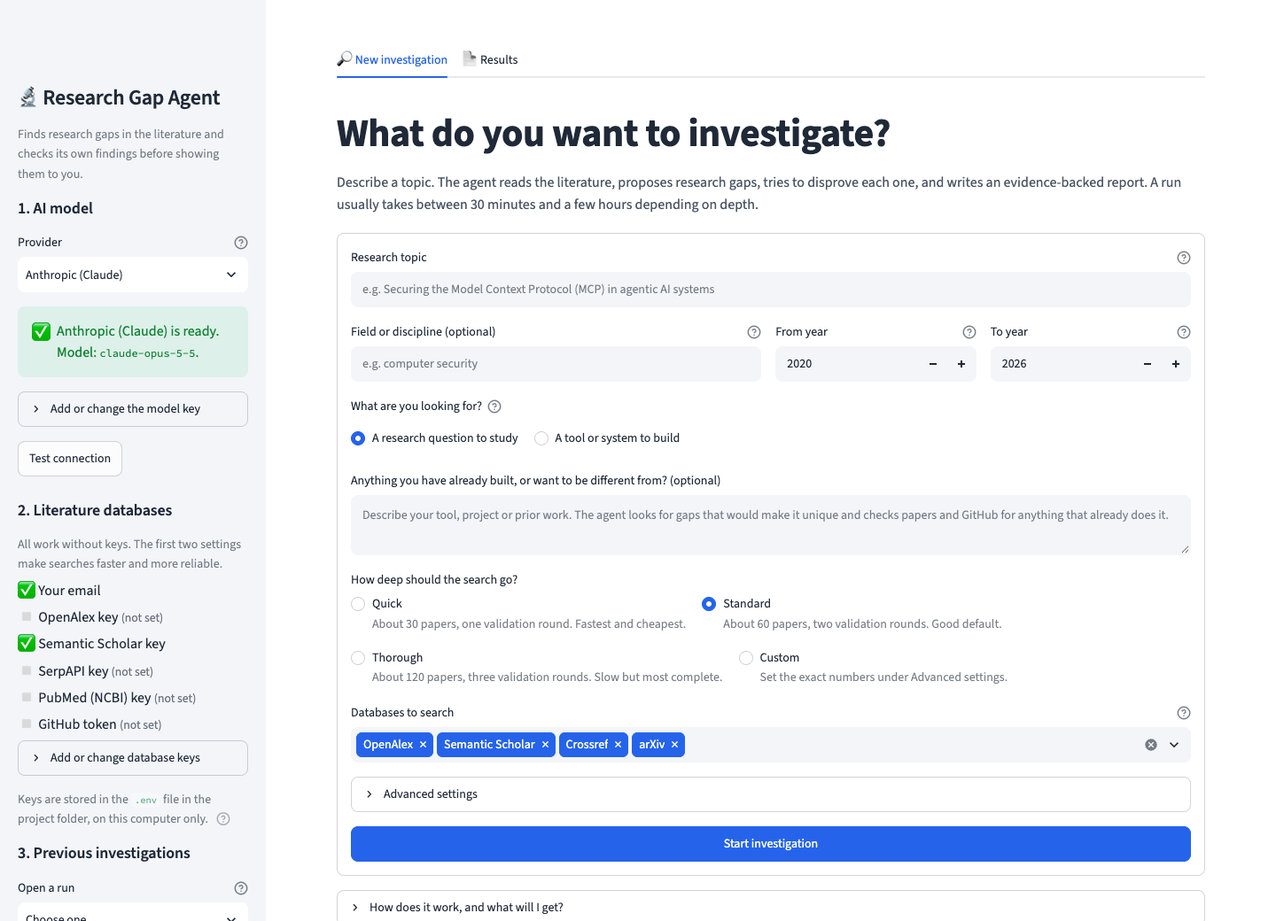
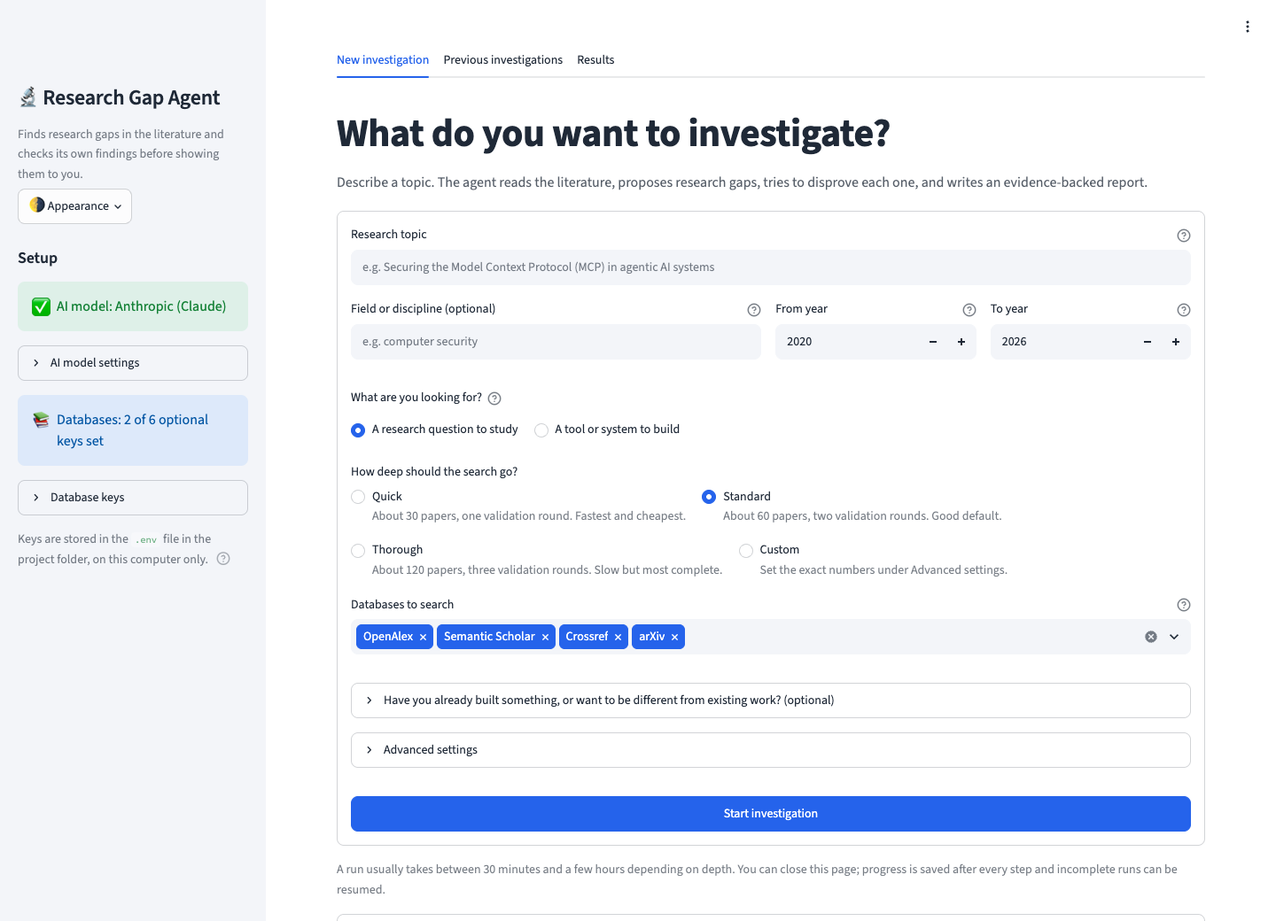
Add light/dark themes, a Previous investigations tab, and a slimmer layout
Light and dark palettes in .streamlit/config.toml with an Appearance switch
in the sidebar (Light / Dark / System) that uses Streamlit's own theme
storage. The sidebar now holds setup only, with the model and database
settings collapsed behind status lines. Previous investigations moves to its
own tab: searchable, filterable, with Open, Run again and Delete (confirmed).
The form folds the optional existing-work box into an expander.

diff --git a/app.py b/app.py
@@ -134,15 +134,17 @@ st.markdown("""
 <style>
   .block-container { padding-top: 2rem; max-width: 1180px; }
   h1 { font-weight: 700; letter-spacing: -0.01em; }
-  .rga-hero { color: #4B5563; font-size: 1.05rem; margin-top: -0.4rem; margin-bottom: 1.2rem; }
+  .rga-hero { opacity: 0.75; font-size: 1.05rem; margin-top: -0.4rem; margin-bottom: 1.2rem; }
   .rga-badge { display: inline-block; padding: 2px 10px; border-radius: 999px; font-size: 0.78rem; font-weight: 600;
                color: white; margin-right: 6px; vertical-align: middle; }
-  .rga-pill { display: inline-block; padding: 2px 9px; border-radius: 999px; font-size: 0.76rem; background: #EEF2FF;
-              color: #3730A3; margin-right: 6px; vertical-align: middle; }
-  .rga-muted { color: #6B7280; font-size: 0.86rem; }
-  .rga-rank { font-size: 1.6rem; font-weight: 700; color: #2563EB; line-height: 1; }
-  div[data-testid="stMetric"] { background: #F3F5F9; border-radius: 10px; padding: 0.8rem 1rem; }
+  .rga-pill { display: inline-block; padding: 2px 9px; border-radius: 999px; font-size: 0.76rem;
+              background: rgba(37, 99, 235, 0.14); color: inherit; margin-right: 6px; vertical-align: middle; }
+  .rga-muted { opacity: 0.65; font-size: 0.86rem; }
+  .rga-rank { font-size: 1.6rem; font-weight: 700; color: #3B82F6; line-height: 1; }
+  div[data-testid="stMetric"] { background: rgba(127, 127, 127, 0.10); border-radius: 10px; padding: 0.8rem 1rem; }
   [data-testid="stSidebar"] .stMarkdown p { margin-bottom: 0.3rem; }
+  [data-testid="stSidebar"] [data-testid="stVerticalBlockBorderWrapper"] { padding: 0.35rem 0.6rem 0.2rem 0.6rem; }
+  [data-testid="stSidebar"] [data-testid="stVerticalBlockBorderWrapper"] p { margin-bottom: 0.15rem; }
 </style>
 """, unsafe_allow_html=True)
 
@@ -326,6 +328,52 @@ def job_title(job: dict) -> str:
     return f"{job['label']} · {job['status'].replace('_', ' ')} · {stage}"
 
 
+def apply_theme(name: str) -> None:
+    """Persist the chosen theme the same way Streamlit's own Settings menu does, then reload the page."""
+    import streamlit.components.v1 as components
+
+    components.html(f"""<script>
+      const p = window.parent;
+      p.localStorage.setItem(`stActiveTheme-${{p.location.pathname}}-v2`, JSON.stringify("{name}"));
+      p.location.reload();
+    </script>""", height=0)
+
+
+def _select_run(rid: str) -> None:
+    st.session_state["selected_run"] = rid
+    st.session_state["confirm_delete"] = None
+
+
+def _ask_delete(rid: str | None) -> None:
+    st.session_state["confirm_delete"] = rid
+
+
+def _reuse_settings(rid: str) -> None:
+    st.session_state["prefill_run"] = rid
+
+
+def delete_run(rid: str) -> None:
+    import shutil
+
+    shutil.rmtree(settings().runs_dir / rid, ignore_errors=True)
+    if st.session_state.get("selected_run") == rid:
+        st.session_state["selected_run"] = None
+    st.session_state["confirm_delete"] = None
+
+
+def run_status(rid: str, s: RunState) -> str:
+    running = {j["run_id"] for j in st.session_state.get("jobs", []) if j["status"] == "running"}
+    n = len(s.stages_completed)
+    if rid in running:
+        return "🟢 Running"
+    if n == len(STAGES):
+        gaps = len([v for v in s.validated_gaps if not v.rejected])
+        return f"✅ Complete · {gaps} gap{'s' if gaps != 1 else ''}"
+    if n == 0:
+        return "⚪ Not started"
+    return f"⏸ {n} of {len(STAGES)} steps"
+
+
 def credential_form(form_key: str, fields: list[tuple[str, str, bool, str]], button: str, extra: dict | None = None) -> None:
     with st.form(form_key):
         entered = {}
@@ -345,38 +393,57 @@ def credential_form(form_key: str, fields: list[tuple[str, str, bool, str]], but
                 st.info("Nothing entered.")
 
 
+if st.session_state.get("prefill_run"):
+    _rid = st.session_state.pop("prefill_run")
+    _sp = settings().runs_dir / _rid / "state.json"
+    if _sp.exists():
+        prefill_form_from(RunState.model_validate(json.loads(_sp.read_text())))
+        st.toast("Settings copied into the New investigation form.", icon="✅")
+
 # ----------------------------------------------------------------------------- sidebar: setup
 with st.sidebar:
     st.title("🔬 Research Gap Agent")
     st.caption("Finds research gaps in the literature and checks its own findings before showing them to you.")
+    with st.popover("🌗 Appearance", help="Switch between light and dark mode. 'System' follows your device setting."):
+        t1, t2, t3 = st.columns(3)
+        if t1.button("Light", key="theme_light", width="stretch"):
+            apply_theme("Light")
+        if t2.button("Dark", key="theme_dark", width="stretch"):
+            apply_theme("Dark")
+        if t3.button("System", key="theme_system", width="stretch"):
+            apply_theme("System")
 
-    st.subheader("1. AI model")
+    st.subheader("Setup")
     detected = detect_provider()
-    chosen_provider = st.selectbox("Provider", list(PROVIDERS), index=list(PROVIDERS).index(detected), key="sb_provider",
-                                   format_func=provider_label,
-                                   help="Picked automatically from whichever key you have saved. Anthropic (Claude) gives the best results.")
-    ready, why = provider_ready(chosen_provider)
-    preset = PROVIDERS[chosen_provider]
+    ready, why = provider_ready(detected)
     if ready:
-        st.success(f"{provider_label(chosen_provider)} is ready. Model: `{preset.default_model or 'set below'}`.", icon="✅")
+        st.success(f"AI model: {provider_label(detected)}", icon="✅")
     else:
-        st.warning(f"{provider_label(chosen_provider)}: {why}. Add it below.", icon="⚠")
-    with st.expander("Add or change the model key", expanded=not ready):
+        st.warning(f"AI model: {provider_label(detected)} has {why}", icon="⚠")
+    with st.expander("AI model settings", expanded=not ready):
+        chosen_provider = st.selectbox("Provider", list(PROVIDERS), index=list(PROVIDERS).index(detected), key="sb_provider",
+                                       format_func=provider_label,
+                                       help="Picked automatically from whichever key you have saved. Anthropic (Claude) gives the best results.")
+        ready, why = provider_ready(chosen_provider)
+        preset = PROVIDERS[chosen_provider]
+        st.caption(f"Default model: `{preset.default_model or 'set one under Advanced settings'}`."
+                   + (f" {preset.note}" if preset.note else ""))
         credential_form("provider_cred_form", PROVIDER_FIELDS[chosen_provider], "Save provider keys",
                         extra={"RGA_LLM_PROVIDER": chosen_provider})
-    if st.button("Test connection", help="Makes one tiny model call with the saved key to confirm everything works."):
-        with st.spinner("Calling the model…"):
-            ok_conn, msg = test_llm_connection(chosen_provider, st.session_state.get("f_model") or None,
-                                               st.session_state.get("f_base_url") or None)
-        (st.success if ok_conn else st.error)(msg)
+        if st.button("Test connection", help="Makes one tiny model call with the saved key to confirm everything works."):
+            with st.spinner("Calling the model…"):
+                ok_conn, msg = test_llm_connection(chosen_provider, st.session_state.get("f_model") or None,
+                                                   st.session_state.get("f_base_url") or None)
+            (st.success if ok_conn else st.error)(msg)
 
-    st.subheader("2. Literature databases")
-    st.caption("All work without keys. The first two settings make searches faster and more reliable.")
-    for env, label, _, _ in SOURCE_FIELDS:
-        val = os.environ.get(env)
-        st.markdown(f"<span title='Stored as {env}'>{'✅' if val else '▫'} {label}"
-                    f"{'' if val else ' <span class=rga-muted>(not set)</span>'}</span>", unsafe_allow_html=True)
-    with st.expander("Add or change database keys"):
+    n_keys = sum(1 for env, *_ in SOURCE_FIELDS if os.environ.get(env))
+    st.info(f"Databases: {n_keys} of {len(SOURCE_FIELDS)} optional keys set", icon="📚")
+    with st.expander("Database keys"):
+        st.caption("All databases work without keys. Your email and an OpenAlex key make searches faster and more reliable.")
+        for env, label, _, _ in SOURCE_FIELDS:
+            val = os.environ.get(env)
+            st.markdown(f"<span title='Stored as {env}'>{'✅' if val else '▫'} {label}"
+                        f"{'' if val else ' <span class=rga-muted>(not set)</span>'}</span>", unsafe_allow_html=True)
         credential_form("source_cred_form", SOURCE_FIELDS, "Save source keys")
         if not os.environ.get("OPENALEX_API_KEY"):
             mail = os.environ.get("RGA_MAILTO", "")
@@ -396,18 +463,8 @@ with st.sidebar:
             stage = STAGE_INFO.get(j["stage"], (j["stage"], ""))[0]
             st.markdown(f"{icon} **{j['label']}**  \n<span class='rga-muted'>{stage}</span>", unsafe_allow_html=True)
 
-    st.subheader("3. Previous investigations")
-    runs = list_runs(settings().runs_dir)
-    labels = {rid: run_label(rid, s) for rid, s in runs}
-    selected_run = st.selectbox("Open a run", options=[""] + [r for r, _ in runs],
-                                format_func=lambda r: labels.get(r, "Choose one…"), key="sb_run",
-                                help="Opens the run in the Results tab and copies its settings into the form, so you can run it again with changes.")
-    if selected_run and st.session_state.get("prefilled_from") != selected_run:
-        prefill_form_from(dict(runs)[selected_run])
-        st.session_state["prefilled_from"] = selected_run
-        st.caption("Form filled with this run's settings.")
-
-tab_new, tab_view = st.tabs(["🔎  New investigation", "📄  Results"])
+selected_run = st.session_state.get("selected_run")
+tab_new, tab_runs, tab_view = st.tabs(["New investigation", "Previous investigations", "Results"])
 
 # ----------------------------------------------------------------------------- new run form
 with tab_new:
@@ -419,11 +476,10 @@ with tab_new:
 
     st.title("What do you want to investigate?")
     st.markdown('<p class="rga-hero">Describe a topic. The agent reads the literature, proposes research gaps, '
-                'tries to disprove each one, and writes an evidence-backed report. A run usually takes '
-                'between 30 minutes and a few hours depending on depth.</p>', unsafe_allow_html=True)
+                'tries to disprove each one, and writes an evidence-backed report.</p>', unsafe_allow_html=True)
     if not ready:
         st.warning(f"**One thing before your first run:** {provider_label(chosen_provider)} has {why}. "
-                   "Open **1. AI model** in the sidebar, paste your key and click **Save provider keys**.", icon="🔑")
+                   "Open **AI model settings** in the sidebar, paste your key and click **Save provider keys**.", icon="🔑")
 
     with st.form("run_form"):
         topic = st.text_input("Research topic", key="f_topic",
@@ -436,28 +492,28 @@ with tab_new:
                                     help="Earliest publication year to include. 1900 means no limit.")
         to_year = c3.number_input("To year", min_value=1900, max_value=2100, key="f_to",
                                   help="Latest publication year to include. The current year means up to today.")
-
+        st.write("")
         goal = st.radio("What are you looking for?", list(GOALS), format_func=GOALS.get, key="f_goal", horizontal=True,
                         help="Choose 'tool' if the result should be something you build. The agent then also searches GitHub for existing tools.")
-        existing = st.text_area("Anything you have already built, or want to be different from? (optional)", key="f_existing",
-                                height=90, placeholder="Describe your tool, project or prior work. The agent looks for gaps that would make it "
-                                                       "unique and checks papers and GitHub for anything that already does it.")
-
         depth = st.radio("How deep should the search go?", list(DEPTHS), key="f_depth", horizontal=True,
                          captions=[d["caption"] for d in DEPTHS.values()])
         sources = st.multiselect("Databases to search", ALL_SOURCES, key="f_sources",
                                  format_func=lambda s: SOURCE_INFO[s][0],
                                  help="\n".join(f"- **{n}**: {d}" for n, d in SOURCE_INFO.values()))
-
+        st.write("")
+        with st.expander("Have you already built something, or want to be different from existing work? (optional)"):
+            existing = st.text_area("Describe it", key="f_existing", height=110, label_visibility="collapsed",
+                                    placeholder="Describe your tool, project or prior work. The agent looks for gaps that would make it "
+                                                "unique and checks papers and GitHub for anything that already does it.")
         with st.expander("Advanced settings"):
-            st.caption("Research preferences")
+            st.markdown("**Research preferences**")
             p1, p2 = st.columns(2)
             methodology = p1.text_input("Preferred methodology (optional)", key="f_method",
                                         placeholder="e.g. empirical evaluation, formal verification, user study",
                                         help="Nudges gap generation and the recommendation towards this kind of work.")
             priority = p2.selectbox("Kind of contribution", list(PRIORITIES), format_func=PRIORITIES.get, key="f_priority",
                                     help="Which kind of research you would rather do. Affects ranking.")
-            st.caption("Exact numbers (used when depth is **Custom**)")
+            st.markdown("**Exact numbers** (used when depth is *Custom*)")
             a1, a2, a3, a4 = st.columns(4)
             max_papers = a1.number_input("Max papers analysed", 5, 300, key="f_max_papers",
                                          help="How many papers get a full evidence extraction. The main driver of time and cost.")
@@ -466,12 +522,15 @@ with tab_new:
                                      help="How many times a narrowed gap is re-checked against the literature.")
             max_ft = a4.number_input("Open-access full texts to fetch", 0, 100, key="f_max_ft",
                                      help="PDFs to download and read in full. 0 uses abstracts only.")
-            st.caption("AI model for this run")
+            st.markdown("**AI model for this run**")
             b1, b2, b3 = st.columns(3)
             provider = b1.selectbox("LLM provider", list(PROVIDERS), key="f_provider", format_func=provider_label)
             model = b2.text_input("Model", key="f_model", help="Leave blank for the provider's default model.")
             base_url = b3.text_input("Server address (self-hosted only)", key="f_base_url")
+        st.write("")
         submitted = st.form_submit_button("Start investigation", type="primary", width="stretch")
+    st.caption("A run usually takes between 30 minutes and a few hours depending on depth. You can close this page; "
+               "progress is saved after every step and incomplete runs can be resumed.")
 
     if submitted:
         ok, why = provider_ready(provider)
@@ -480,7 +539,7 @@ with tab_new:
         elif not sources:
             st.error("Select at least one database.")
         elif not ok and not base_url:
-            st.error(f"{provider_label(provider)} is not ready: {why}. Add the key in the sidebar under **1. AI model**.")
+            st.error(f"{provider_label(provider)} is not ready: {why}. Add the key in the sidebar under **AI model settings**.")
         else:
             model_name = model.strip() or PROVIDERS[provider].default_model
             nums = DEPTHS[depth] if depth != "Custom" else {"max_papers": int(max_papers), "per_source": int(per_source),
@@ -568,7 +627,7 @@ flags retracted papers, and tries to disprove each gap before reporting it. If a
         elif job["status"] == "config_error":
             bar.empty()
             head.error("**The model rejected the call because of account configuration.**\n\n" + job["config_error"]
-                       + "\n\nFix it in the sidebar under **1. AI model**, click **Test connection**, then resume this run from the Results tab.")
+                       + "\n\nFix it in the sidebar under **AI model settings**, click **Test connection**, then resume this run from the Results tab.")
         elif job["status"] == "error":
             bar.empty()
             head.error("The run failed. Progress was saved, so you can resume from the Results tab. Details are in the technical log.")
@@ -577,13 +636,58 @@ flags retracted papers, and tries to disprove each gap before reporting it. If a
             st.info("Still running in the background: " + ", ".join(j["label"] for j in others)
                     + ". Pick it under **Watch** above to follow it.")
 
+# ----------------------------------------------------------------------------- previous investigations tab
+with tab_runs:
+    runs = list_runs(settings().runs_dir)
+    st.title("Previous investigations")
+    if not runs:
+        st.info("Nothing here yet. Every investigation you start is saved automatically and will show up on this page.", icon="💡")
+    else:
+        complete_n = sum(1 for _, s in runs if len(s.stages_completed) == len(STAGES))
+        st.markdown(f'<p class="rga-hero">{len(runs)} saved · {complete_n} complete · {len(runs) - complete_n} incomplete. '
+                    'Open one to read its results, run it again with changes, or delete it.</p>', unsafe_allow_html=True)
+        f1, f2 = st.columns([3, 1])
+        query = f1.text_input("Search", key="run_filter", placeholder="Search by topic…", label_visibility="collapsed")
+        show = f2.selectbox("Show", ["All", "Complete", "Incomplete"], key="run_show", label_visibility="collapsed")
+        shown = [(r, s) for r, s in runs if query.lower() in s.options.topic.lower()]
+        if show == "Complete":
+            shown = [(r, s) for r, s in shown if len(s.stages_completed) == len(STAGES)]
+        elif show == "Incomplete":
+            shown = [(r, s) for r, s in shown if len(s.stages_completed) < len(STAGES)]
+        if not shown:
+            st.caption("No run matches.")
+        limit = len(shown) if st.session_state.get("show_all_runs") or len(shown) <= 10 else 10
+        for rid, s in shown[:limit]:
+            is_open = selected_run == rid
+            o = s.options
+            with st.container(border=True):
+                info, b_open, b_again, b_del = st.columns([6, 1.2, 1.6, 0.7])
+                info.markdown(f"**{o.topic}**  \n<span class='rga-muted'>{s.created_at.strftime('%d %b %Y, %H:%M')} · "
+                              f"{run_status(rid, s)} · {len(s.papers)} papers · {provider_label(o.provider)}</span>",
+                              unsafe_allow_html=True)
+                b_open.button("Opened ✓" if is_open else "Open", key=f"open_{rid}", width="stretch", disabled=is_open,
+                              on_click=_select_run, args=(rid,), help="Show this run in the Results tab")
+                b_again.button("↺ Run again", key=f"again_{rid}", width="stretch", on_click=_reuse_settings, args=(rid,),
+                               help="Copy this run's topic and settings into the New investigation form")
+                if st.session_state.get("confirm_delete") == rid:
+                    st.warning("Delete this run and all its files? This cannot be undone.", icon="🗑")
+                    d1, d2, _ = st.columns([1, 1, 6])
+                    if d1.button("Delete", key=f"confirm_{rid}", type="primary", width="stretch"):
+                        delete_run(rid)
+                        st.rerun()
+                    d2.button("Keep", key=f"keep_{rid}", width="stretch", on_click=_ask_delete, args=(None,))
+                else:
+                    b_del.button("🗑", key=f"del_{rid}", width="stretch", on_click=_ask_delete, args=(rid,), help="Delete this run")
+        if limit < len(shown):
+            st.button(f"Show all {len(shown)} runs", key="show_all_runs_btn",
+                      on_click=lambda: st.session_state.update(show_all_runs=True))
+
 # ----------------------------------------------------------------------------- results tab
 with tab_view:
     run_id = selected_run or (st.session_state.get("job") or {}).get("run_id")
     if not run_id:
         st.title("Results")
-        st.info("Nothing to show yet. Start an investigation in the first tab, or open a previous one from the sidebar "
-                "under **3. Previous investigations**.", icon="💡")
+        st.info("Nothing to show yet. Start an investigation in the first tab, or open one from **Previous investigations**.", icon="💡")
     else:
         run_dir = settings().runs_dir / run_id
         sp = run_dir / "state.json"

diff --git a/tests/test_gui.py b/tests/test_gui.py
@@ -40,10 +40,9 @@ def test_app_lists_past_runs_and_shows_report(tmp_path, monkeypatch):
     (runs / "old1" / "state.json").write_text(st.model_dump_json())
     at = AppTest.from_file(str(APP), default_timeout=30).run()
     assert not at.exception
-    sb = next(s for s in at.sidebar.selectbox if s.label == "Open a run")
-    label = next(o for o in sb.options if o.endswith("old1"))
-    assert "1/12 stages" in label and label.startswith("Old topic about agents")
-    sb.select("old1").run()  # select by raw value; options are shown with formatted labels
+    card = next(m for m in at.markdown if "Old topic about agents" in m.value)
+    assert "1 of 12 steps" in card.value
+    at.button(key="open_old1").click().run()
     assert not at.exception
     assert any("incomplete" in w.value for w in at.warning)
     assert any("Old topic about agents" in t.value for t in at.title)
@@ -76,7 +75,7 @@ def test_provider_selector_and_key_form(tmp_path, monkeypatch):
     assert "OPENAI_API_KEY=sk-openai" in text and "RGA_LLM_PROVIDER=openai" in text
 
 
-def test_selecting_past_run_prefills_form(tmp_path, monkeypatch):
+def test_run_again_button_prefills_form(tmp_path, monkeypatch):
     runs = tmp_path / "runs"
     monkeypatch.setenv("RGA_RUNS_DIR", str(runs))
     from research_gap_agent.models import RunOptions, RunState
@@ -87,7 +86,10 @@ def test_selecting_past_run_prefills_form(tmp_path, monkeypatch):
     (runs / "r1").mkdir(parents=True)
     (runs / "r1" / "state.json").write_text(RunState(run_id="r1", options=opts).model_dump_json())
     at = AppTest.from_file(str(APP), default_timeout=30).run()
-    next(s for s in at.sidebar.selectbox if s.label == "Open a run").select("r1").run()
+    at.button(key="open_r1").click().run()
+    assert not at.exception
+    assert any("XAI for IoT" in t.value for t in at.title)  # opened in Results
+    at.button(key="again_r1").click().run()  # copy its settings into the form
     assert not at.exception
     inputs = {t.label: t.value for t in at.text_input}
     assert inputs["Research topic"] == "XAI for IoT intrusion detection"

diff --git a/docs/USAGE.md b/docs/USAGE.md
@@ -32,15 +32,18 @@ Progress is printed to stderr; the report, full run state, and reference exports
 streamlit run app.py
 ```
 
-A single-page interface designed for people who do not use the command line. The sidebar is a three-step setup
-(AI model key, optional database keys, previous investigations); keys are saved to `.env`. The form uses plain
-labels and three depth presets (Quick ≈ 30 papers / 1 validation round, Standard ≈ 60 / 2, Thorough ≈ 120 / 3) plus
-a Custom option that exposes the exact numbers under *Advanced settings*. While a run is in progress the page shows a
-twelve-step progress bar with a plain-language description of the current step; the raw log sits in a collapsible
-*Technical log*. The Results tab shows the recommended next step, the surviving gaps as ranked cards with status badges
-(open gap, early work only, conflicting findings, partly addressed, could not verify), the rejected candidates with
-their counter-evidence, the full HTML report, a filterable paper table with links, and the search log. The theme lives
-in `.streamlit/config.toml`.
+An interface designed for people who do not use the command line. The sidebar holds setup only: an Appearance switch
+(light, dark or system theme), the AI model key, and the optional database keys; keys are saved to `.env`. The main area
+has three tabs. *New investigation* is a form with plain labels and three depth presets (Quick ≈ 30 papers / 1 validation
+round, Standard ≈ 60 / 2, Thorough ≈ 120 / 3) plus a Custom option that exposes the exact numbers under *Advanced
+settings*; while a run is in progress it shows a twelve-step progress bar with a plain-language description of the current
+step, and the raw log sits in a collapsible *Technical log*. *Previous investigations* lists every saved run with its date,
+status and paper count, searchable and filterable, with Open, Run again (copies the settings into the form) and Delete
+(with confirmation). *Results* shows the recommended next step, the surviving gaps as ranked cards with status badges
+(open gap, early work only, conflicting findings, partly addressed, could not verify), the rejected candidates with their
+counter-evidence, the full HTML report, a filterable paper table with links, and the search log. Both colour themes are
+defined in `.streamlit/config.toml`.
+
 Interrupted runs resume from the last completed stage:
 
 ```bash

diff --git a/README.md b/README.md
@@ -43,7 +43,8 @@ streamlit run app.py
 
 The app opens in your browser. Paste your API key once in the sidebar, type a topic, pick a depth
 (Quick, Standard or Thorough), and click Start. You can watch each of the twelve steps run, stop and
-resume a run, and read the ranked gaps, the full report and every paper found without touching a terminal.
+resume a run, browse and rerun previous investigations, and read the ranked gaps, the full report and
+every paper found without touching a terminal. Light and dark themes are built in.
 
 ## How it works
 
